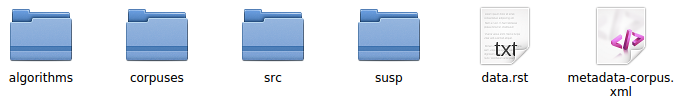
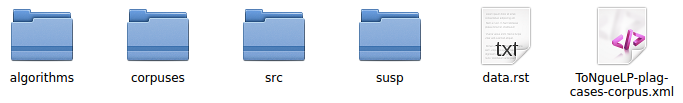
Actualizando data.rst para eliminar metadata-corpus.xml una idea obsoleta pues ahora los metadatos del corpus están dentro del ToNgueLP-plag-cases-corpus.xml

diff --git a/data/data.rst b/data/data.rst
@@ -35,7 +35,7 @@ Estructura de Ficheros
 * :src: Carpeta de documentos originales (o fuentes) del corpus de |EScorpus|.
 * :susp: Carpeta de documentos sospechosos del corpus de |EScorpus|
 * :data.srt: Fichero necesario para generar la documentación automáticamente.
-* :metadata-corpus.xml: `Metadatos del corpus <data/metadata-corpus.xml>`_
+* :ToNgueLP-plag-cases-corpus.xml: `Corpus de ToNgueLP <data/metadata-corpus.xml>`_
 
 :Copyright: Creative Commons Share Alike Non Commercial Use, 2014
 .. sectionauthor:: Abel Meneses Abad <abelma1980@gmail.com> 
